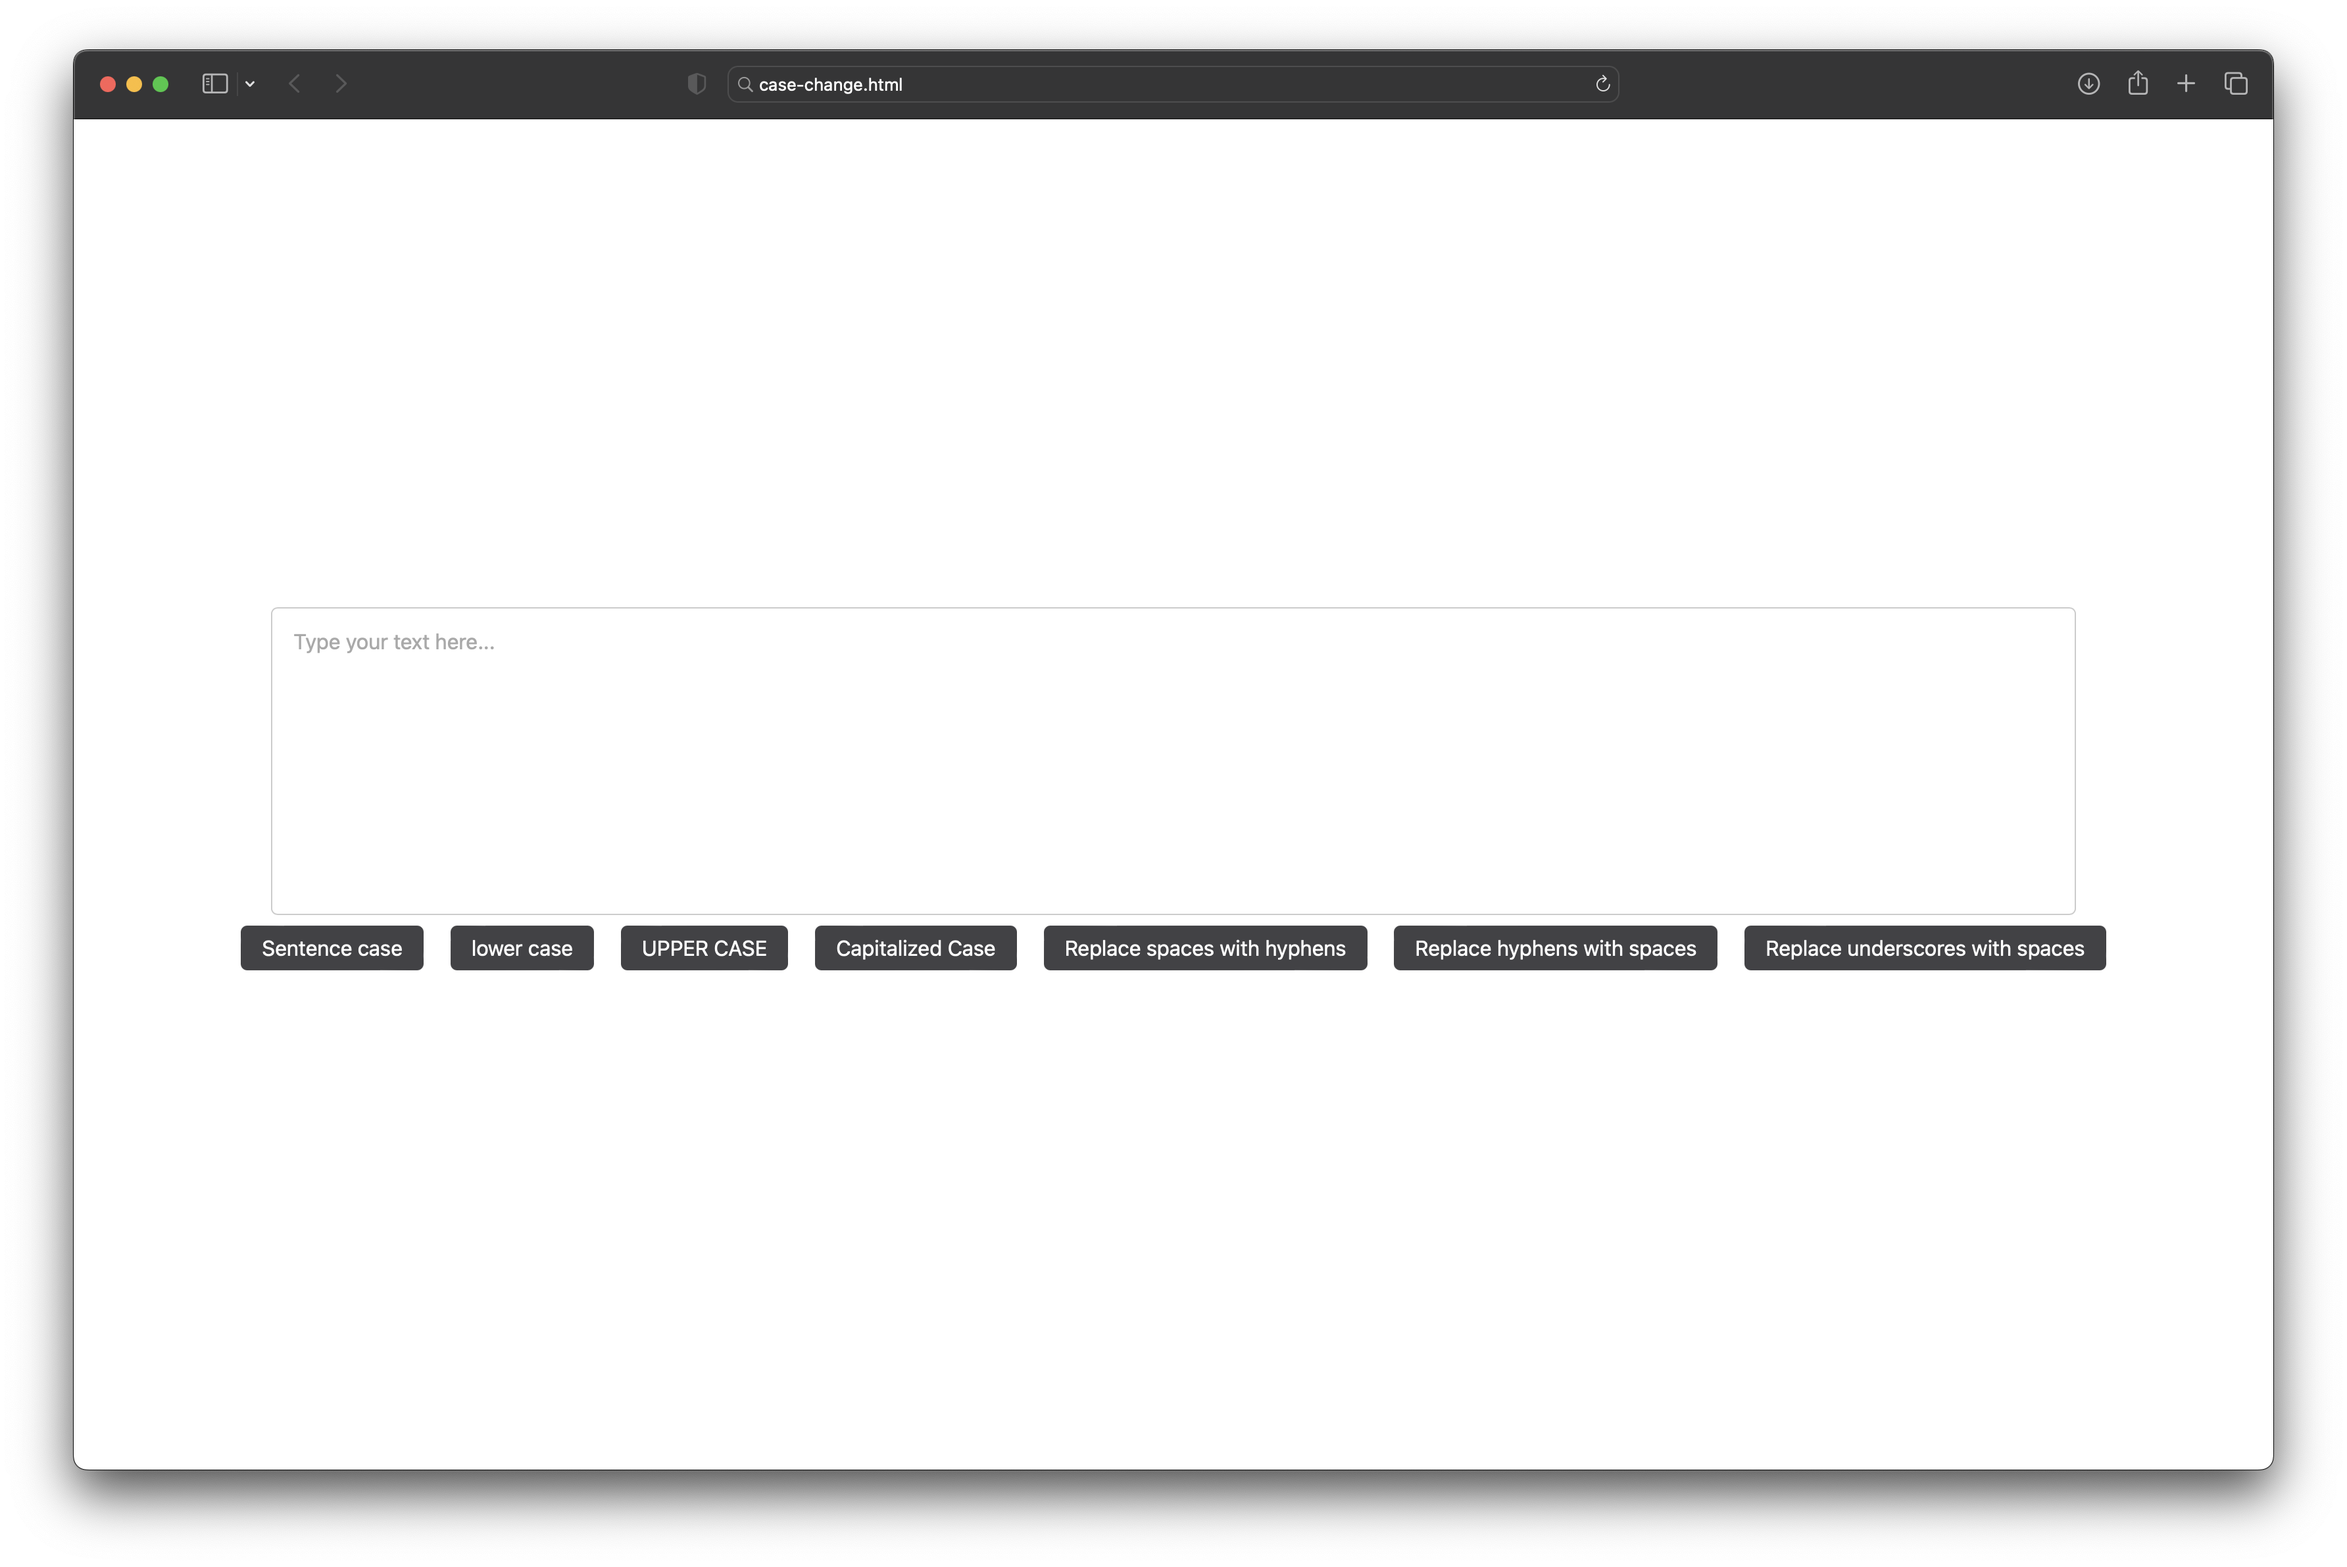
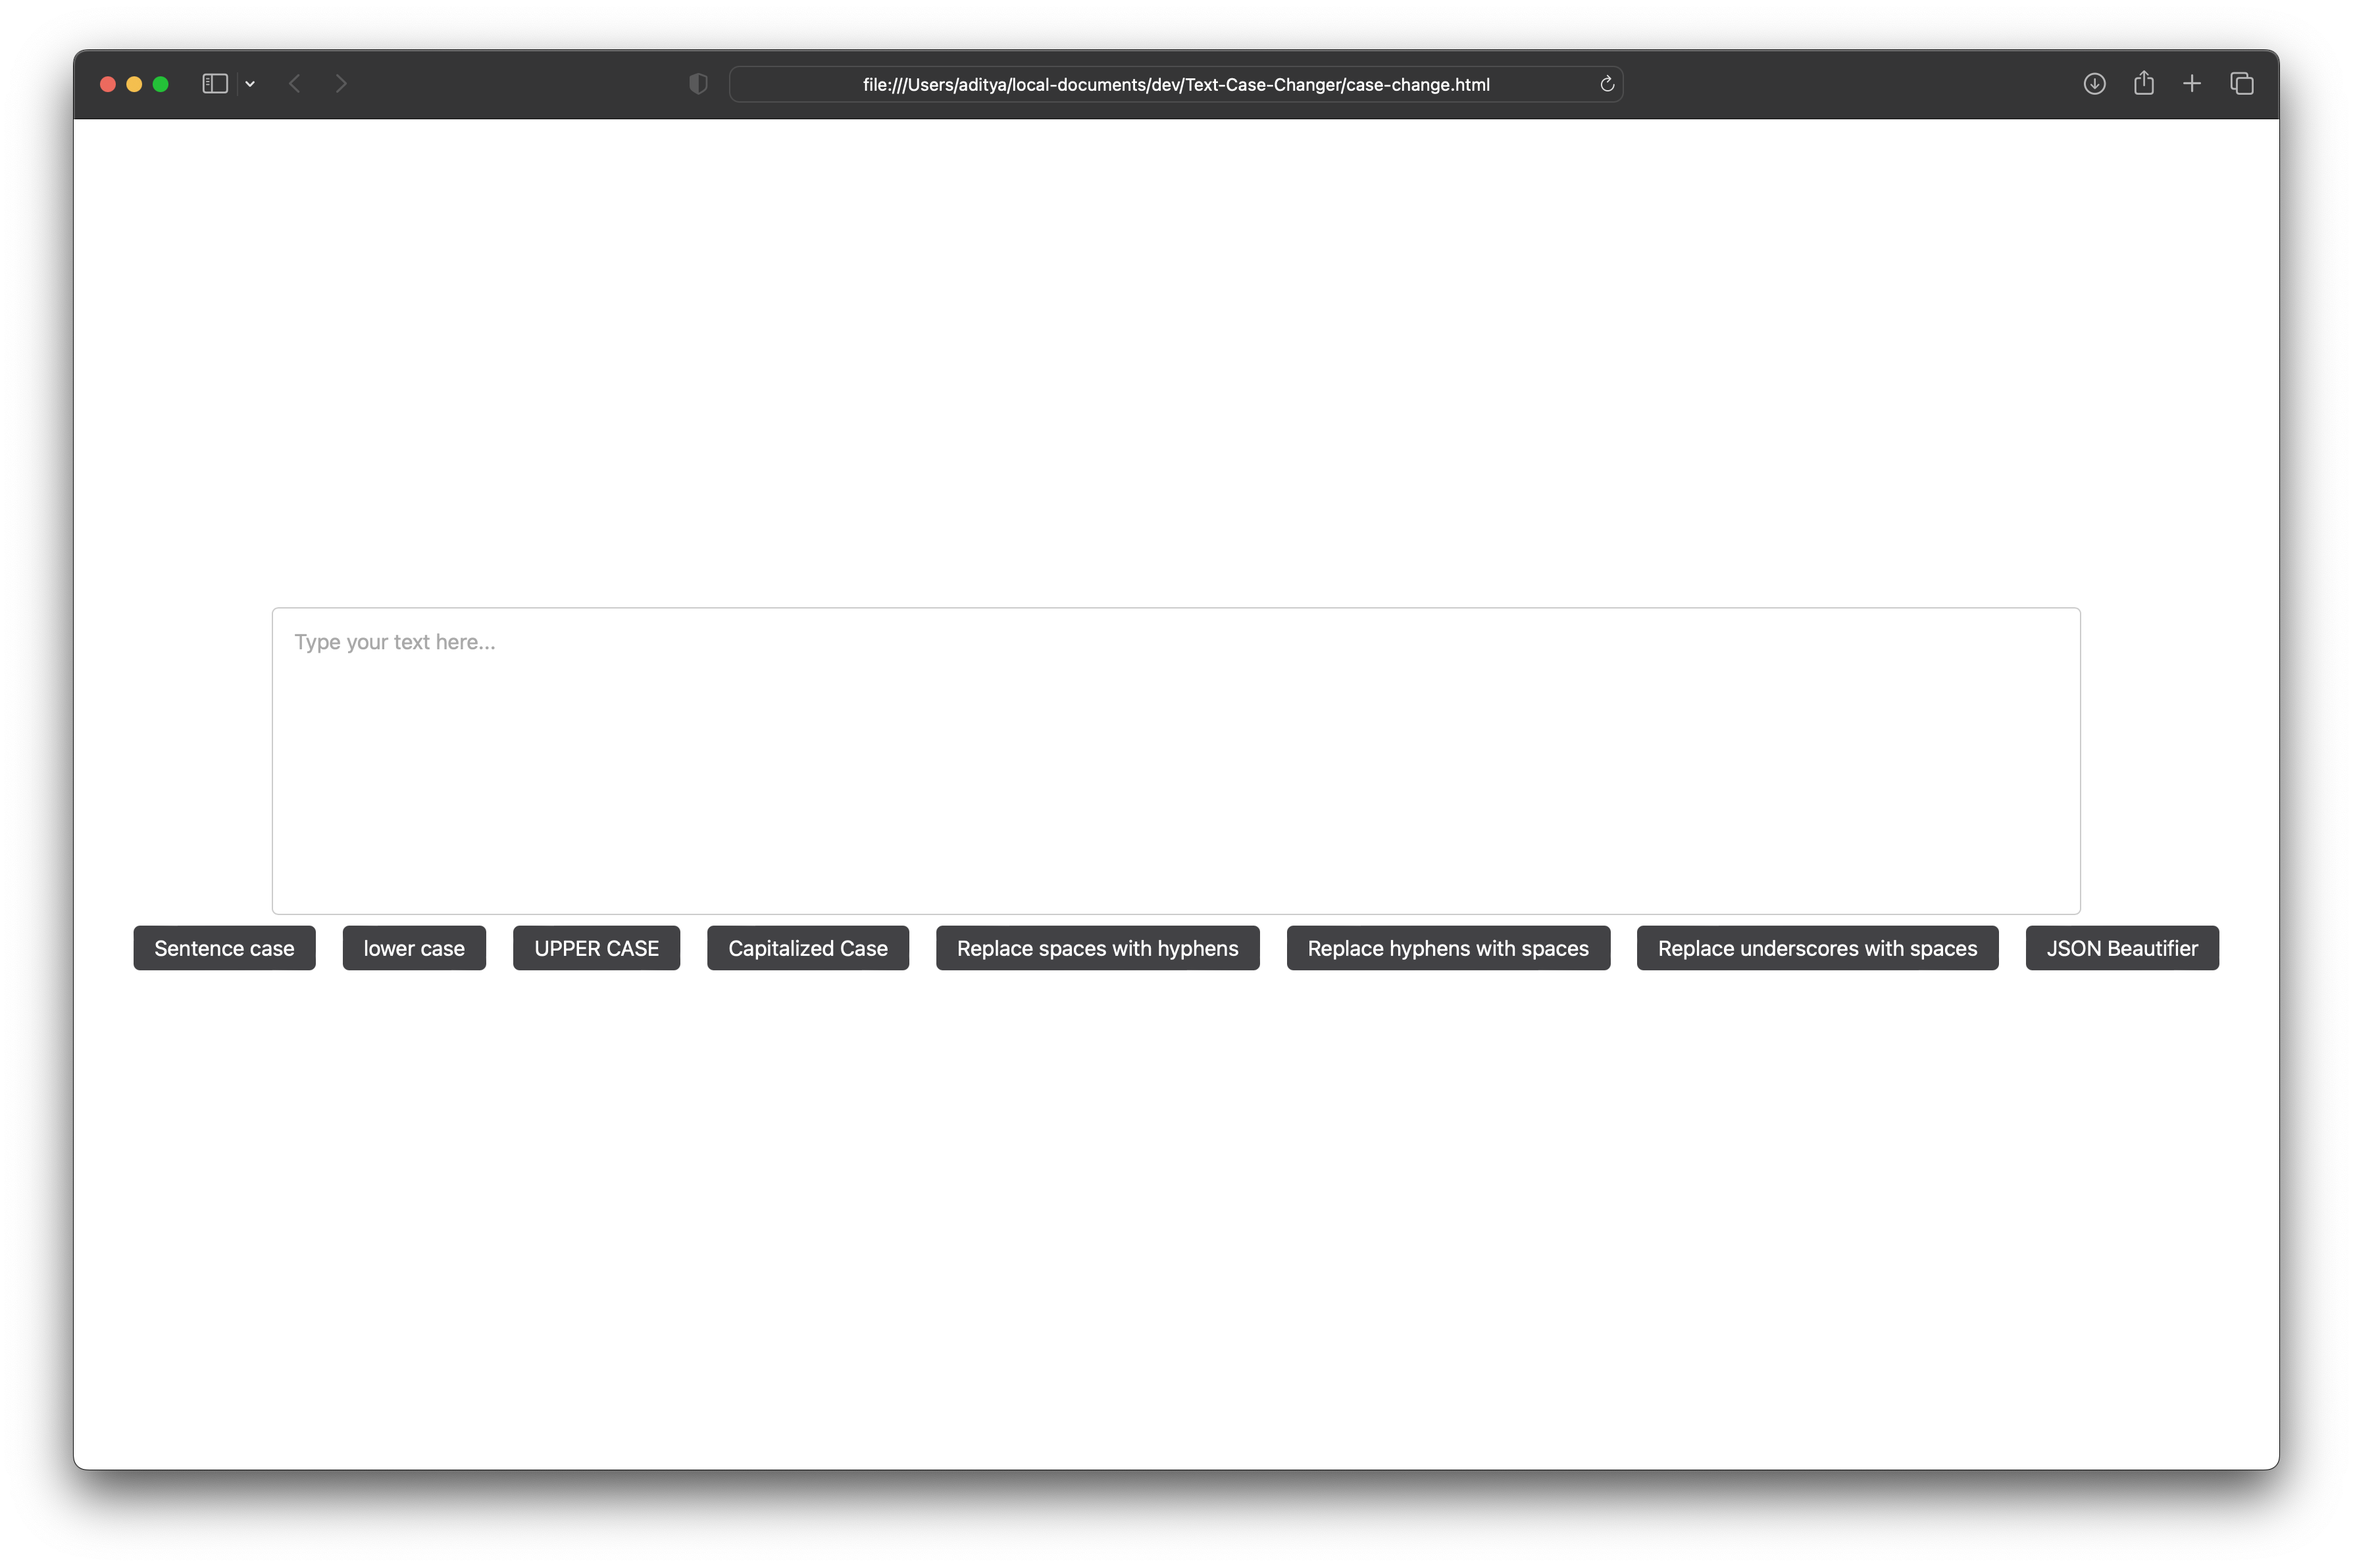
added json beautifier functionality

Changed region(s): [[0.0311, 0.5903, 0.9644, 0.6213], [0.3422, 0.0311, 0.6222, 0.0621]]

diff --git a/case-change.html b/case-change.html
@@ -52,6 +52,7 @@
         <button onclick="changeTextCase('changeToHyphen')">Replace spaces with hyphens</button>
         <button onclick="changeTextCase('changeToSpace')">Replace hyphens with spaces</button>
         <button onclick="changeTextCase('replaceUnderscore')">Replace underscores with spaces</button>
+        <button onclick="changeTextCase('jsonBeautify')">JSON Beautifier</button>
     </div>
 
     <script>
@@ -79,6 +80,15 @@
                 newText = inputText.value.replace(/-/g, ' ');
             } else if (caseType === 'replaceUnderscore') {
                 newText = inputText.value.replace(/_/g, ' ');
+            } else if (caseType === 'jsonBeautify') {
+                try {
+                    // Parse the JSON to ensure it is valid and then stringify it with indentation
+                    const obj = JSON.parse(inputText.value);
+                    newText = JSON.stringify(obj, null, 4);
+                } catch (e) {
+                    // If there is a parsing error, catch it and display an error message
+                    newText = "Error: Invalid JSON";
+                }
             }
             inputText.value = newText;
         }
